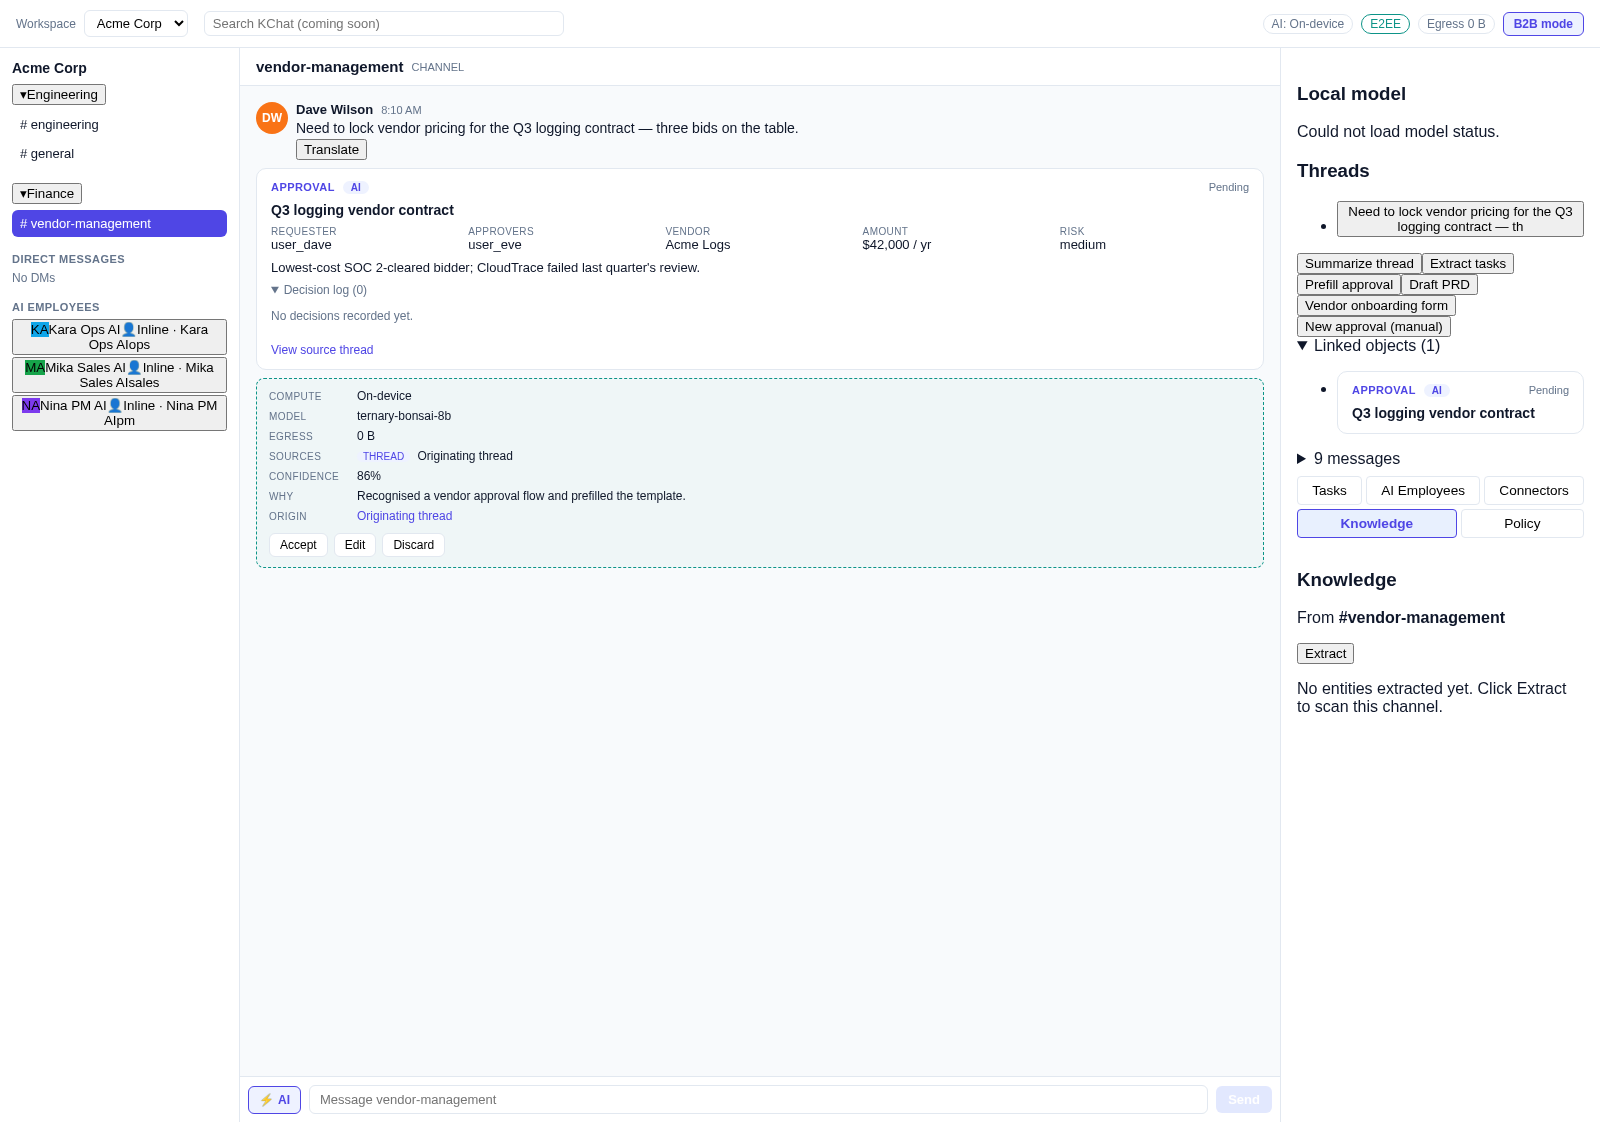
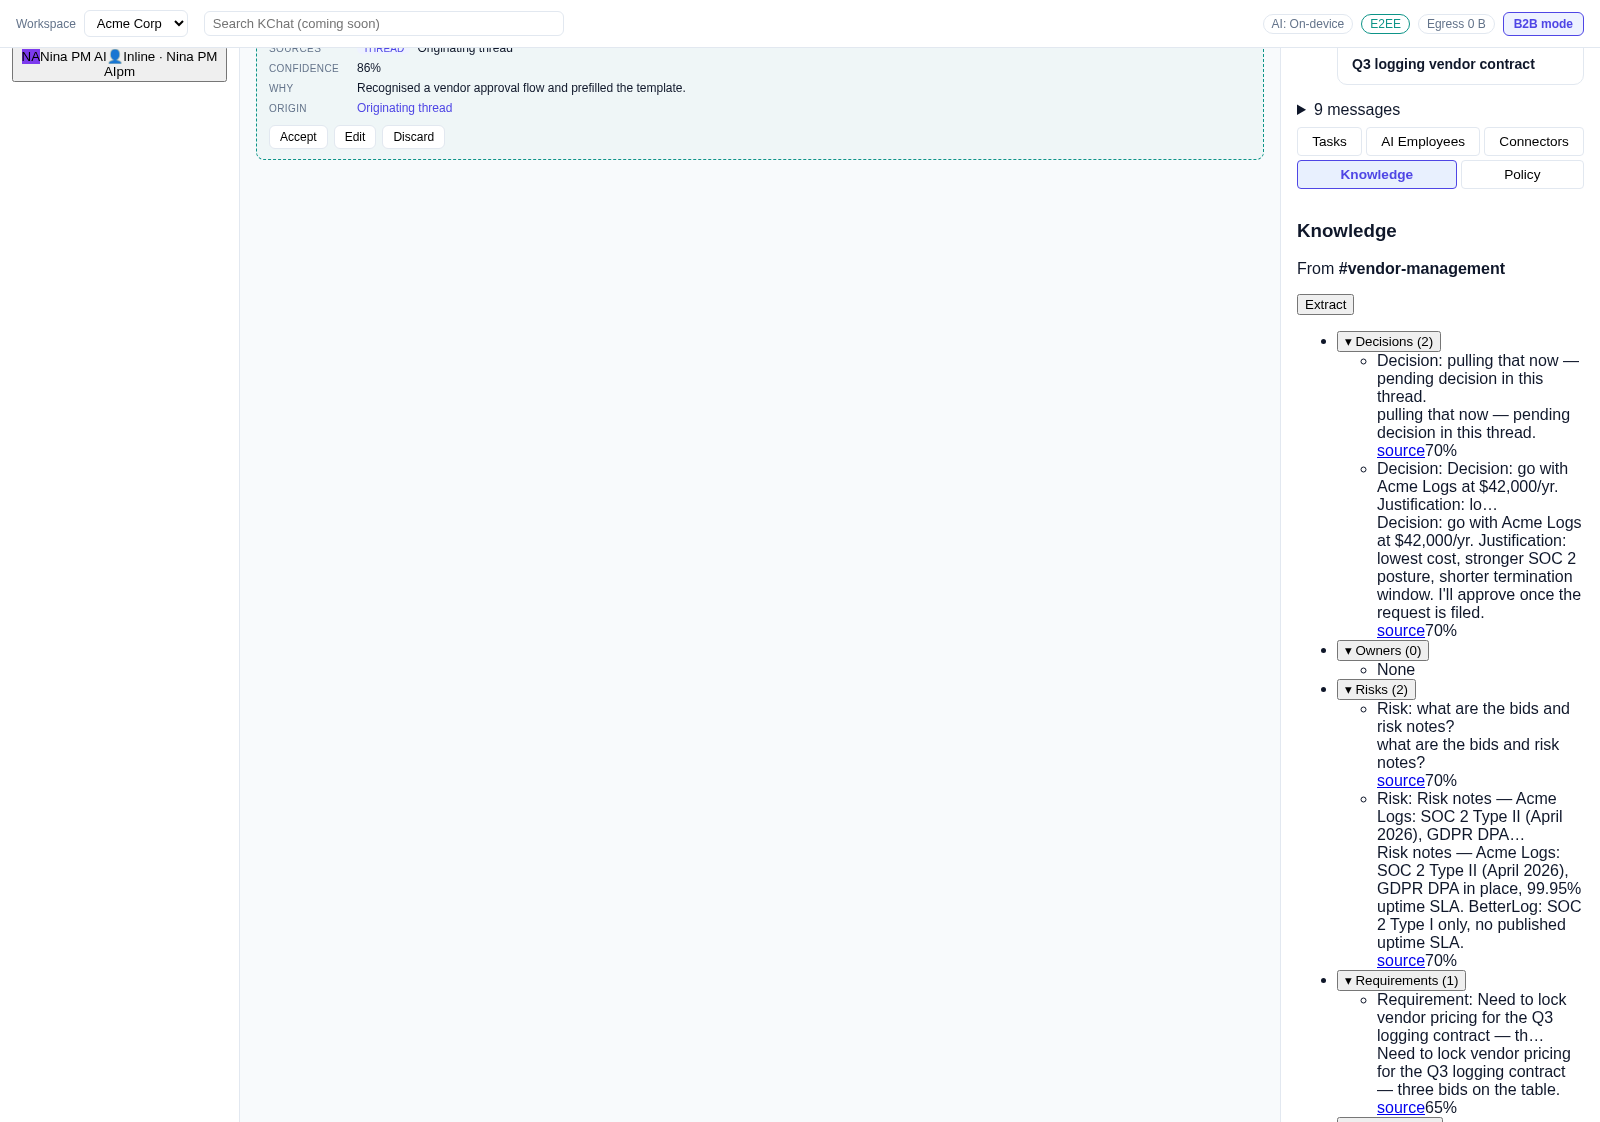
docs(b2b): correct stale recipe list in ARCHITECTURE IPC table; refresh b2b/11 + b2b/03 demo shots
- ARCHITECTURE.md §3.3b: `ai:recipe:run` row claimed only `summarize`
  and `extract_tasks` were registered; six recipes self-register
  through `recipes/index.ts`. List all six (`summarize`,
  `extract_tasks`, `draft_prd`, `draft_proposal`, `create_qbr`,
  `prefill_approval`).
- demo/README.md row for `b2b/11-knowledge-graph.png` described the
  panel as showing decisions / owners / risks from the Q2 OKR thread.
  The actual screenshot was the empty `#vendor-management` state, and
  the Q2 OKR thread on `#general` only yields deadline entities.
  Re-captured against `#vendor-management` after pressing Extract
  (2 decisions, 2 risks, 1 requirement, 0 owners with source chips +
  confidence badges) and rewrote the row description to match.
- Captured the previously-pending `b2b/03-action-launcher.png` shot
  (Action Launcher open with the four-intent Create / Analyze / Plan /
  Approve menu); updated the demo README's 'Captured in this pass' /
  'Pending' lists. `b2b/07` and `b2b/09` remain pending — those
  surfaces require a live AI stream from the Electron shell.
- PROGRESS.md: changelog entry for the B2B audit.

diff --git a/PROGRESS.md b/PROGRESS.md
@@ -162,6 +162,7 @@ Last updated: 2026-04-30 (post-development documentation audit; Phase 6 status c
 
 | Date | Change |
 |------|--------|
+| 2026-04-30 | **Post-development B2B documentation audit.** Walked the Phase 3 / 4 / 5 B2B claims against the running backend and renderer: backend exposes the workspace → domain → channel hierarchy (`ws_acme` with Engineering + Finance, three channels), three seeded AI Employees (Kara Ops AI, Mika Sales AI, Nina PM AI) with the documented allowed channels / recipes / budgets, two seeded connectors (`conn_gdrive_acme`, `conn_onedrive_acme`) with files attached to the right channels, and the `KApps` / `Audit` / `Recipe` / `Budget` / `Knowledge` / `Retrieval` endpoints all return their seeded shapes. The `frontend/electron/inference/recipes/` barrel registers all six canonical Phase-4 recipes (`summarize`, `extract_tasks`, `draft_prd`, `draft_proposal`, `create_qbr`, `prefill_approval`). Found and fixed two doc drifts: (1) `ARCHITECTURE.md` §3.3b IPC table description for `ai:recipe:run` listed only `summarize` and `extract_tasks` as registered recipes — corrected to list all six; (2) `demo/README.md` row for `b2b/11-knowledge-graph.png` claimed the panel showed "decisions / owners / risks from the Q2 OKR thread", but the published screenshot was actually the empty `#vendor-management` state and the Q2 OKR thread on `#general` only yields deadline entities — re-captured `b2b/11` against `#vendor-management` after pressing **Extract** (renders 2 decisions, 2 risks, 1 requirement, 0 owners with `source` chips and confidence badges) and rewrote the row description to match. Also captured the previously-pending `b2b/03-action-launcher.png` shot (Action Launcher open with Create / Analyze / Plan / Approve four-intent menu) and updated the demo README's "Captured in this pass" / "Pending" lists accordingly. `b2b/07-artifact-workspace.png` and `b2b/09-recipe-output-gate.png` remain pending because they require a live AI stream from the Electron shell that the renderer-only Vite harness cannot fake. |
 | 2026-04-30 | **Post-development documentation audit.** Verified PR #35 (perf: batch translation, auto-run morning digest, smart-reply IPC guard) merged cleanly into main: `frontend/src/features/chat/MessageList.tsx` carries the `translateQueryKey` helper + the `useEffect` that collects translatable messages and dispatches a single `ai:translate-batch` IPC call (seeding the react-query cache with a `null` sentinel while the batch is in flight, then writing per-message `TranslateResponse` entries on success); `frontend/src/features/ai/MorningDigestPanel.tsx` auto-runs the digest on mount via a `startedRef`-guarded `useEffect` and caches the completed digest under `DIGEST_CACHE_KEY` in react-query; `frontend/src/api/aiApi.ts` exposes `waitForElectronAI(timeoutMs = 400)` and `fetchTranslateBatch()`, and `fetchSmartReply` now awaits `waitForElectronAI()` instead of calling `getElectronAI()` synchronously (closes the preload race window). Corrected Phase 6 status from `Complete \| 100%` to `In progress \| ~85%` to reflect that 5 of the ~30 Phase 6 items are still open (confidential-server periodic health check, redaction audit-trail integration, server-tier recipe routing, egress budget enforcement, `ConfidentialServerAdapter` retry-with-backoff). Updated README.md (Phase 2 heading, deferred-features list, new "Performance optimizations" section) and ARCHITECTURE.md (`translate-utils.ts` in the component tree, `ai:translate-batch` IPC row, `TranslateBatchRequest` / `TranslateBatchResponse` types). |
 | 2026-04-29 | **Post-development: demo polish.** Enriched `backend/internal/store/seed.go` with realistic multi-day B2C activity (DM translation exchange, 13-message family thread covering field trip / piano recital / parent-teacher night / Grandma birthday / grocery + weekend plans, community events expanded with garage sale / lost-pet notice / volunteer request) and richer B2B source material (vendor thread with pricing / risk / decision, a second engineering on-call-rotation thread, Q2 OKR standup thread in `#general`). Updated `frontend/electron/inference/mock.ts` so `summarize` references specific seeded people / dates / items, `extract_tasks` cites `msg_fam_*` IDs for source attribution, `smart_reply` returns 2-3 distinct suggestions, and `prefill_approval` matches the enriched vendor thread (SOC 2, 30-day termination, 99.95% uptime SLA). Added `backend/internal/store/seed_test.go` (channel-size, B2C flow coverage, B2B thread length tests), updated `memory_test.go` thresholds, and added `seeded demo outputs` tests to `frontend/electron/inference/mock.test.ts`. Created `demo/` directory with `demo/README.md` index (B2C + B2B tables mapping each screenshot to PROPOSAL.md §5 flow, with "How to reproduce" instructions) and captured 15 representative renderer screenshots under `demo/b2c/` and `demo/b2b/`. No phase-status change — Phases 0-6 remain at 100%. |
 | 2026-04-29 | **Phase 6 complete.** Shipped the 8 remaining enterprise-hardening deliverables: (1) **No-content server logging** — `StructuralLogger` middleware + `SanitizeLogFields` helper (Go) and `sanitizeForLog` / `logInference` (Electron main process); (2) **Policy admin controls** — `WorkspacePolicy` model, `PolicyService`, `GET / PATCH /api/workspaces/{id}/policy`, plus the `PolicyAdminPanel` mounted in the new B2B right-rail "Policy" tab; (3) **Audit exports** — `GET /api/audit/export?format=json|csv` with `Content-Disposition` headers and Export JSON / CSV buttons in `AuditLogPanel`; (4) **SSO integration** — `SSOAuth` middleware that decodes a base64 `Authorization: Bearer` payload, validates the email domain against `cfg.AllowedDomains`, and falls back to `MockAuth` when disabled (router opt-in via `SSO_ENABLED=true`); (5) **SCIM provisioning** — `/api/scim/v2/Users` List / Get / Create / Patch / Delete with the SCIM core schema, `Active` / `Email` on the user model, plus `CreateUser` / `DeactivateUser` on the in-memory store; (6) **Per-tenant encryption keys** — `TenantEncryptionKey` model, `EncryptionKeyService` (`GenerateKey` / `GetActiveKey` / `RotateKey` / `ListKeys`), and `GET / POST /api/workspaces/{id}/encryption-keys` + rotate endpoint, default key seeded for `ws_acme`; (7) **Tenant storage config** — `TenantStorageConfig` model, `TenantStorageService`, and `GET / PATCH /api/workspaces/{id}/storage`; (8) **Android AICore bridge stub** — `AICoreBridge` interface and `StubAICoreBridge` class in `frontend/electron/inference/aicore-bridge.ts` documenting the contract the React Native / native Android port will implement. Also marked the Phase 1 WebSocket / native-streaming bullet as covered by the existing `ConfidentialServerAdapter` NDJSON streaming path. New backend tests: `middleware_logging_test.go`, `middleware_sso_test.go`, `policy_test.go`, `audit_export_test.go`, `scim_test.go`, `encryption_test.go`, `tenant_storage_test.go`. New / extended renderer tests: `logging.test.ts`, `aicore-bridge.test.ts`, `PolicyAdminPanel.test.tsx`, `AuditLogPanel.test.tsx` (export buttons). Phase 6 status flipped from In progress / ~52% to **Complete / 100%**. |

diff --git a/demo/README.md b/demo/README.md
@@ -26,13 +26,15 @@ demo is reproducible without a live Ollama daemon.
 >   `04-family-task-cards`, `06-translation-caption`,
 >   `08-event-rsvp`, `12-metrics-dashboard`.
 > - B2B: `01-workspace-navigation`, `02-thread-summary`,
->   `04-approval-prefill`, `05-approval-card-pending`,
->   `06-artifact-draft`, `08-ai-employee-panel`,
->   `10-connector-panel`, `11-knowledge-graph`, `12-policy-admin`.
+>   `03-action-launcher`, `04-approval-prefill`,
+>   `05-approval-card-pending`, `06-artifact-draft`,
+>   `08-ai-employee-panel`, `10-connector-panel`,
+>   `11-knowledge-graph`, `12-policy-admin`.
 >
-> Pending (need a manual capture pass to surface the specific UI
-> state): `b2c/02`, `b2c/05`, `b2c/07`, `b2c/09`, `b2c/10`, `b2c/11`,
-> `b2b/03`, `b2b/07`, `b2b/09`, and the three standalone
+> Pending (need a manual capture pass — these surfaces require a live
+> AI stream from the Electron shell, which the renderer-only Vite
+> harness cannot fake): `b2c/02`, `b2c/05`, `b2c/07`, `b2c/09`,
+> `b2c/10`, `b2c/11`, `b2b/07`, `b2b/09`, and the three standalone
 > `local-model-status.png` / `privacy-strip-on-device.png` /
 > `egress-summary-zero.png` shots.
 
@@ -75,7 +77,7 @@ Source workspace: **Acme Corp** (`ws_acme`) with two domains —
 | 8 | [`b2b/08-ai-employee-panel.png`](./b2b/08-ai-employee-panel.png) | §5.4 — AI Employee | on-device | `AIEmployeePanel` showing Kara Ops AI with her budget, queued recipes, and recent runs. |
 | 9 | [`b2b/09-recipe-output-gate.png`](./b2b/09-recipe-output-gate.png) | §5 — output gate | on-device | `RecipeOutputGate` presenting the mandatory Accept / Edit / Discard review before a recipe writes into a KApp. |
 | 10 | [`b2b/10-connector-panel.png`](./b2b/10-connector-panel.png) | §5.4 — connector | on-device | `ConnectorPanel` showing the seeded Google Drive connector attached to `ch_vendor_management`. |
-| 11 | [`b2b/11-knowledge-graph.png`](./b2b/11-knowledge-graph.png) | §5 — knowledge | on-device | `KnowledgeGraphPanel` with extracted decisions / owners / risks from the Q2 OKR thread. |
+| 11 | [`b2b/11-knowledge-graph.png`](./b2b/11-knowledge-graph.png) | §5 — knowledge | on-device | `KnowledgeGraphPanel` (right-rail "Knowledge" tab) on `#vendor-management` after pressing **Extract**: 2 decisions ("pulling that now — pending decision…", "go with Acme Logs at $42,000/yr…"), 2 risks, 1 requirement, 0 owners — each with `source` link back to the originating message and a confidence badge. |
 | 12 | [`b2b/12-policy-admin.png`](./b2b/12-policy-admin.png) | §6 — policy | on-device | `PolicyAdminPanel` showing per-workspace AI compute rules (server compute denied, egress budget, redaction required). |
 
 ## On-device LLM demonstration

diff --git a/ARCHITECTURE.md b/ARCHITECTURE.md
@@ -519,7 +519,7 @@ The preload script exposes `window.electronAI` to the renderer via
 | `ai:event-rsvp`        | `eventRSVP(req)`                          | `runEventRSVP` (B2C community chat → up to 4 events with title / when / location / RSVP-by) |
 | `ai:trip-plan`         | `tripPlan(req)`                           | `runTripPlanner` in `skills/trip-planner.ts` — pulls weather / events / attractions from `MockSearchService`, reads `location` / `member` / `community-detail` AI Memory facts, and returns a structured day-by-day itinerary with per-item source attribution (on-device). |
 | `ai:guardrail-check`   | `guardrailCheck(req)`                     | `runGuardrailRewrite` in `skills/guardrail-rewrite.ts` — combines a deterministic PII regex pre-pass with an SLM tone / unverified-claim review and returns `{ safe, findings, rewrite?, rationale }` (on-device). |
-| `ai:recipe:run`        | `recipeRun(req)` (Phase 4)                | `runRecipe` in `electron/ipc-handlers.ts` — generic AI-Employee recipe dispatcher. Takes `{ recipeId, aiEmployeeId, channelId, threadId?, messages, allowedRecipes? }`, looks the recipe up in `RECIPE_REGISTRY` (`electron/inference/recipes/`), refuses when the AI Employee is not authorised for the recipe, and returns a uniform `RecipeResult` (`status: 'ok' | 'refused'`, `output`, `model`, `tier`, `reason`). Canonical recipes registered today: `summarize`, `extract_tasks`. |
+| `ai:recipe:run`        | `recipeRun(req)` (Phase 4)                | `runRecipe` in `electron/ipc-handlers.ts` — generic AI-Employee recipe dispatcher. Takes `{ recipeId, aiEmployeeId, channelId, threadId?, messages, allowedRecipes? }`, looks the recipe up in `RECIPE_REGISTRY` (`electron/inference/recipes/`), refuses when the AI Employee is not authorised for the recipe, and returns a uniform `RecipeResult` (`status: 'ok' | 'refused'`, `output`, `model`, `tier`, `reason`). Canonical recipes registered today (six, self-registered through `recipes/index.ts`): `summarize`, `extract_tasks`, `draft_prd`, `draft_proposal`, `create_qbr`, `prefill_approval`. |
 | `model:status`         | `modelStatus()`                           | `OllamaAdapter.status()` (or stub when Ollama is offline) |
 | `model:load`           | `loadModel(name)`                         | `OllamaAdapter.load()` |
 | `model:unload`         | `unloadModel(name)`                       | `OllamaAdapter.unload()` |
